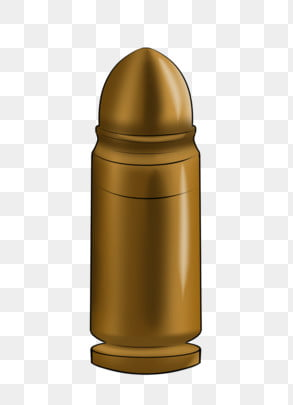
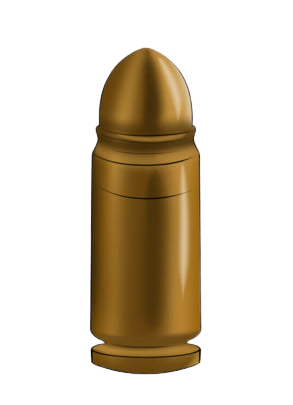
if the space is pressed the gun shot and if the bullet touch top it disappear

diff --git a/Bullet.java b/Bullet.java
@@ -15,11 +15,35 @@ public class Bullet extends Actor
      */
     public Bullet()
     {
-        b.scale(100,100);
+        b.scale(50, 50);
         setImage(b);
+    }
+    public void move()
+    {
+        int x = getX();
+        int y = getY();
+        if(Greenfoot.isKeyDown("A"))
+        {
+            x-= 5;
+        }
+        if(Greenfoot.isKeyDown("D")){
+            x+= 5;
+        }
+        if(Greenfoot.isKeyDown("space"))
+        {
+            y -= 5;
+        }
+        setLocation(x, y);
     }
     public void act()
     {
-        // Add your action code here.
+        move();
+        int top = getWorld().getHeight();
+        top -=400;
+        
+        MyWorld world = (MyWorld) getWorld();
+        if(getY()<= top){
+            world.removeObject(this);   
+        }
     }
 }

diff --git a/MyWorld.java b/MyWorld.java
@@ -21,6 +21,8 @@ public class MyWorld extends World
         super(600, 400, 1);
         BackGround back = new BackGround();
         addObject(back, 300, 200);
+        Bullet b = new Bullet();
+        addObject(b, 300, 350);
         Mine m = new Mine();
         Spike s = new Spike();
         Gun g = new Gun();
